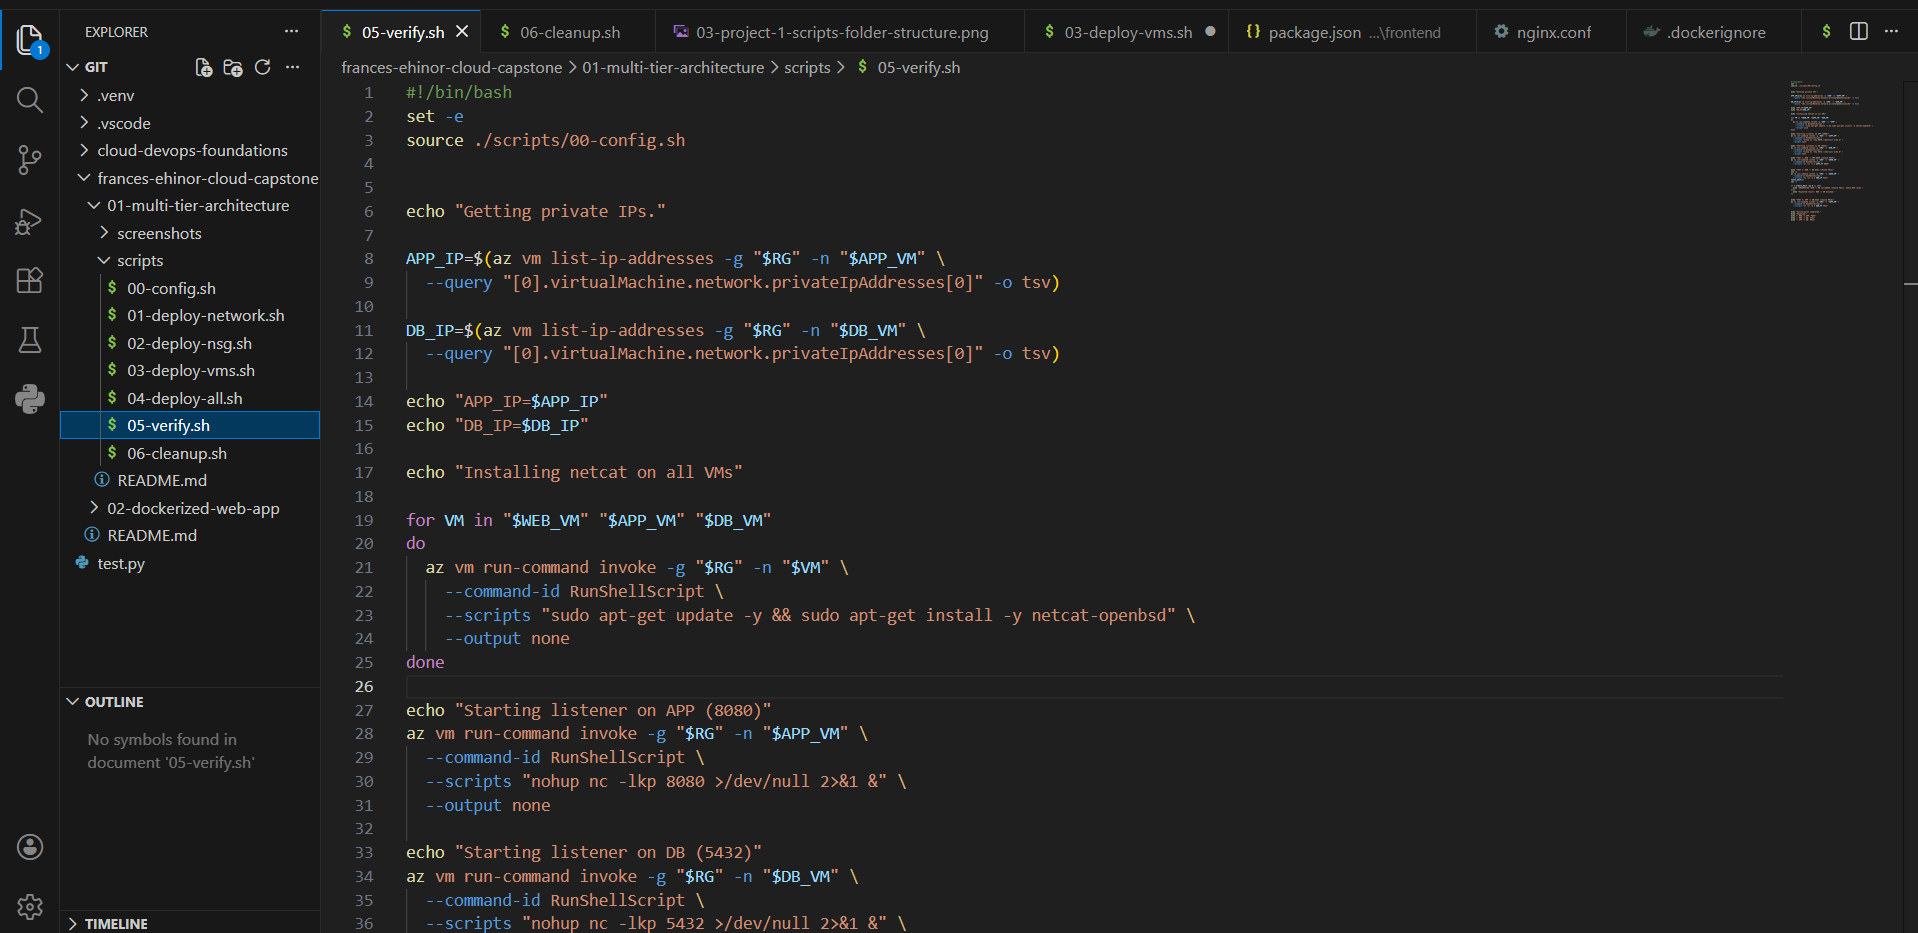
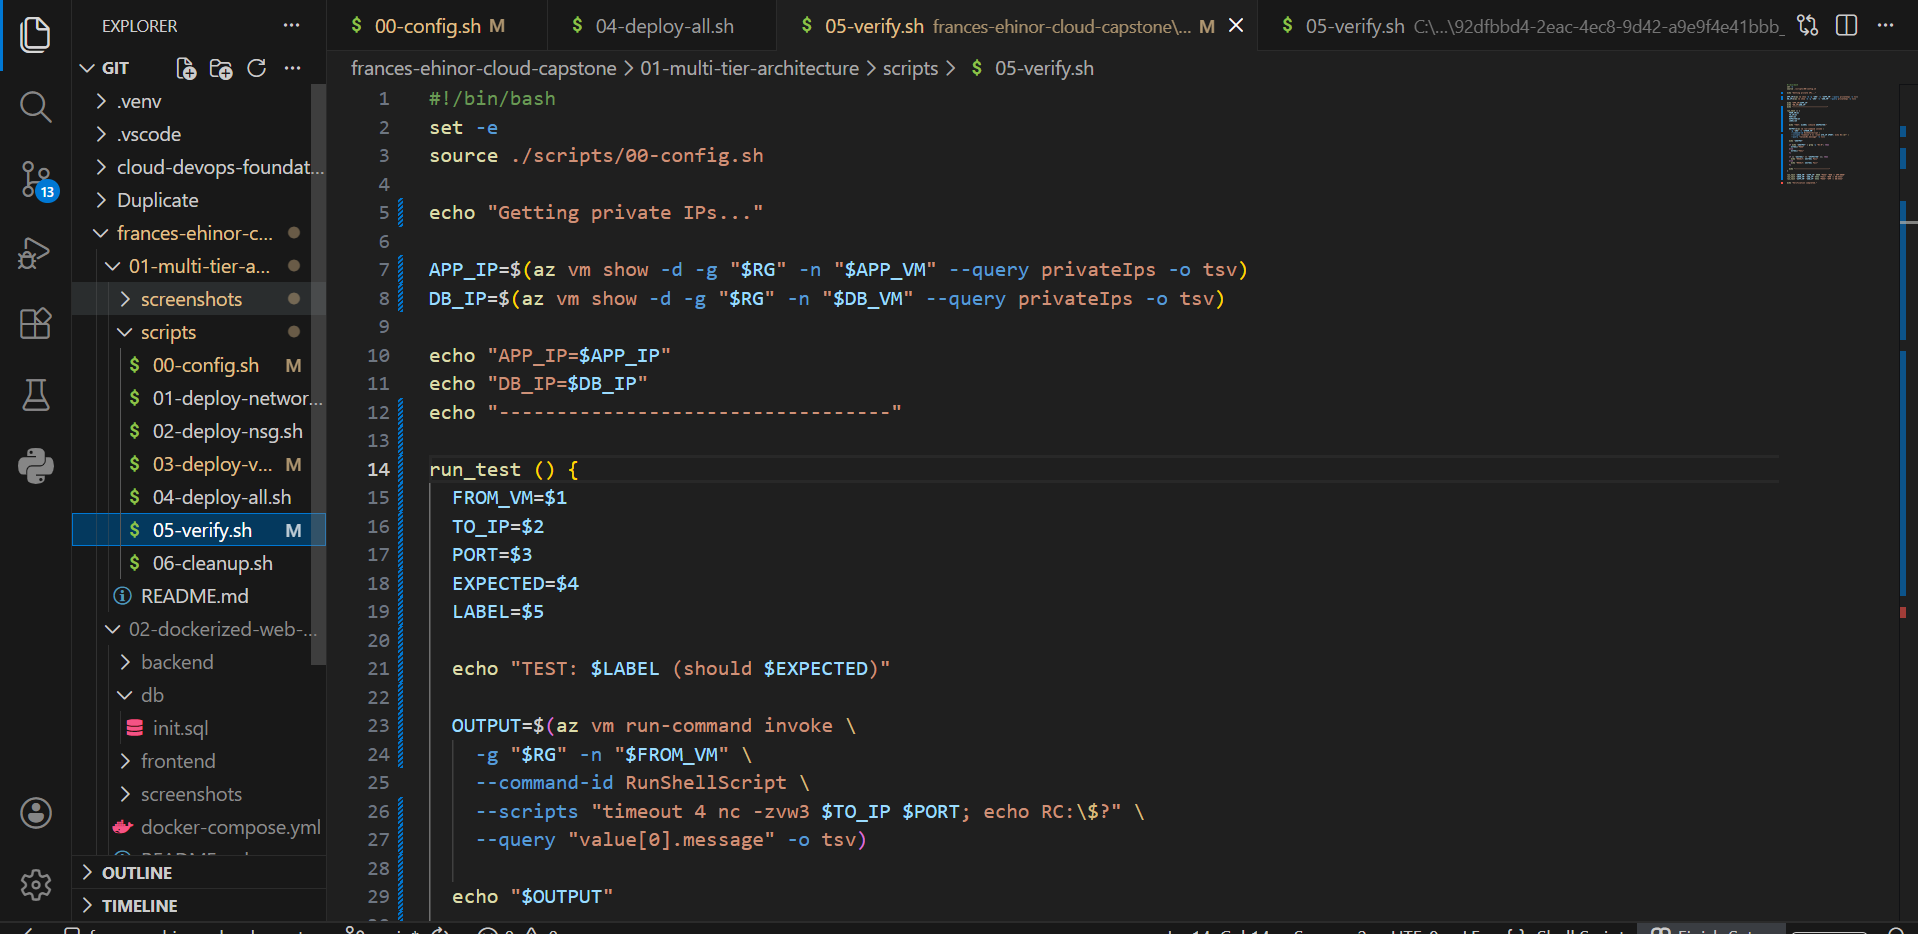
Project 1: final update with VM deployment, NSG rules, connectivity verification and cleanup proof

diff --git a/01-multi-tier-architecture/README.md b/01-multi-tier-architecture/README.md
@@ -1,0 +1,117 @@
+### Project 1: VNet Multi-Tier Architecture with Access Control
+
+----
+
+### Overview
+
+In this project, I deployed a multi-tier architecture in Azure using Azure CLI scripts and version control in GitHub.
+
+The goal:
+	Create a segmented network (Web, App, DB)
+	Deploy Linux VMs in each subnet
+	Control traffic between them using NSGs
+	Verify that only the correct communication is allowed
+	Automate everything using Bash scripts
+
+Everything was deployed using CLI. No manual resource creation in the Azure Portal.
+
+----
+
+### Architecture
+
+### Network Setup
+
+The environment includes:
+	1 Virtual Network
+	Subnets:
+		1 Web subnet (10.10.1.0/24)
+		1 App subnet (10.10.2.0/24)
+		1 DB subnet (10.10.3.0/24)
+    Each subnet has its own NSG attached.
+
+    Virtual Machines:
+		1 Linux VM in Web subnet
+		1 Linux VM in App subnet
+		1 Linux VM in DB subnet
+
+
+----
+
+### Access Control Design
+
+Traffic is restricted intentionally:
+	•	Web to App (port 8080): Allowed
+	•	App to DB (port 5432): Allowed
+	•	Web to DB: Blocked
+
+This enforces proper tier separation.
+
+The verification script confirms that these rules behave exactly as expected.
+
+----
+
+### What This Project Demonstrates
+
+This project shows:
+	•	How to create a segmented VNet with multiple subnets
+	•	How to provision Linux VMs using Azure CLI
+	•	How to enforce layered access control using NSGs
+	•	How to verify connectivity rules between tiers
+	•	How to automate deployment and cleanup using Bash scripts
+
+----
+
+### Scripts
+
+All deployment steps are automated using Bash scripts.
+
+	•	00-config.sh: Configuration variables
+    •	01-deploy-network.sh: Creates VNet and subnets
+	•	02-deploy-nsg.sh: Creates and configures NSGs
+	•	03-deploy-vms.sh: Deploys Linux VMs
+    •	04-deploy-all.sh: Runs full deployment
+	•	05-verify.sh: Tests connectivity between tiers
+	•	06-cleanup.sh: Deletes the resource group
+
+There is also a deploy-all script to automate the full setup.
+
+----
+
+### How to Deploy
+
+From Cloud Shell:
+chmod +x scripts/*.sh
+scripts/04-deploy-all.sh
+
+---- 
+
+### Verification
+
+Expected results:
+	•	WEB → APP = PASS
+	•	WEB → DB = FAIL
+	•	APP → DB = PASS
+
+These results confirm that access control is working correctly.
+
+Screenshots of all verification steps are included in the screenshots/ folder.
+
+----
+
+### Cleanup
+
+To remove all deployed resources:
+scripts/06-cleanup
+
+This deletes the entire resource group to avoid unnecessary Azure costs.
+
+---
+
+### Final Notes
+
+This project focuses on:
+	•	Network segmentation
+	•	Enforced access control
+	•	Scripted deployment
+	•	Validation through connectivity testing
+	•	Proper cleanup after use
